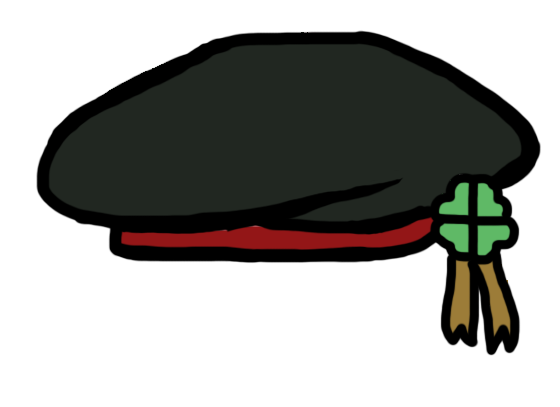
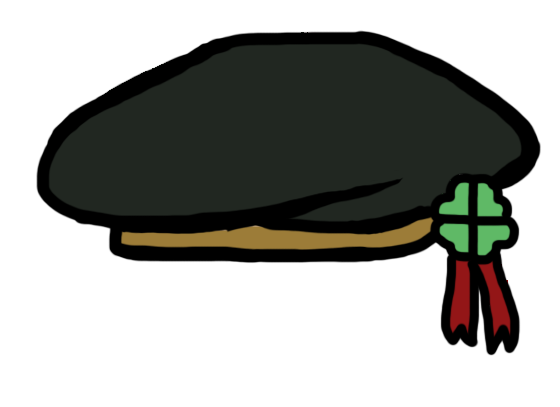
Berets!

Changed region(s): [[0.2125, 0.5307, 0.7893, 0.6192], [0.7893, 0.6192, 0.9107, 0.8256]]

diff --git a/README.md b/README.md
@@ -5,6 +5,9 @@
 
 Alpha Academy is an iOS application that teaches people programing!
 
+## Learn and collect your Berets!
+![](docs/images/Berets.jpg?raw=true)
+
 ## Built With
 * [JSQMessagesViewController](https://github.com/jessesquires/JSQMessagesViewController) - An elegant messages UI library for iOS
 * [CocoaPods](https://cocoapods.org/) - The Cocoa Dependency Manager
